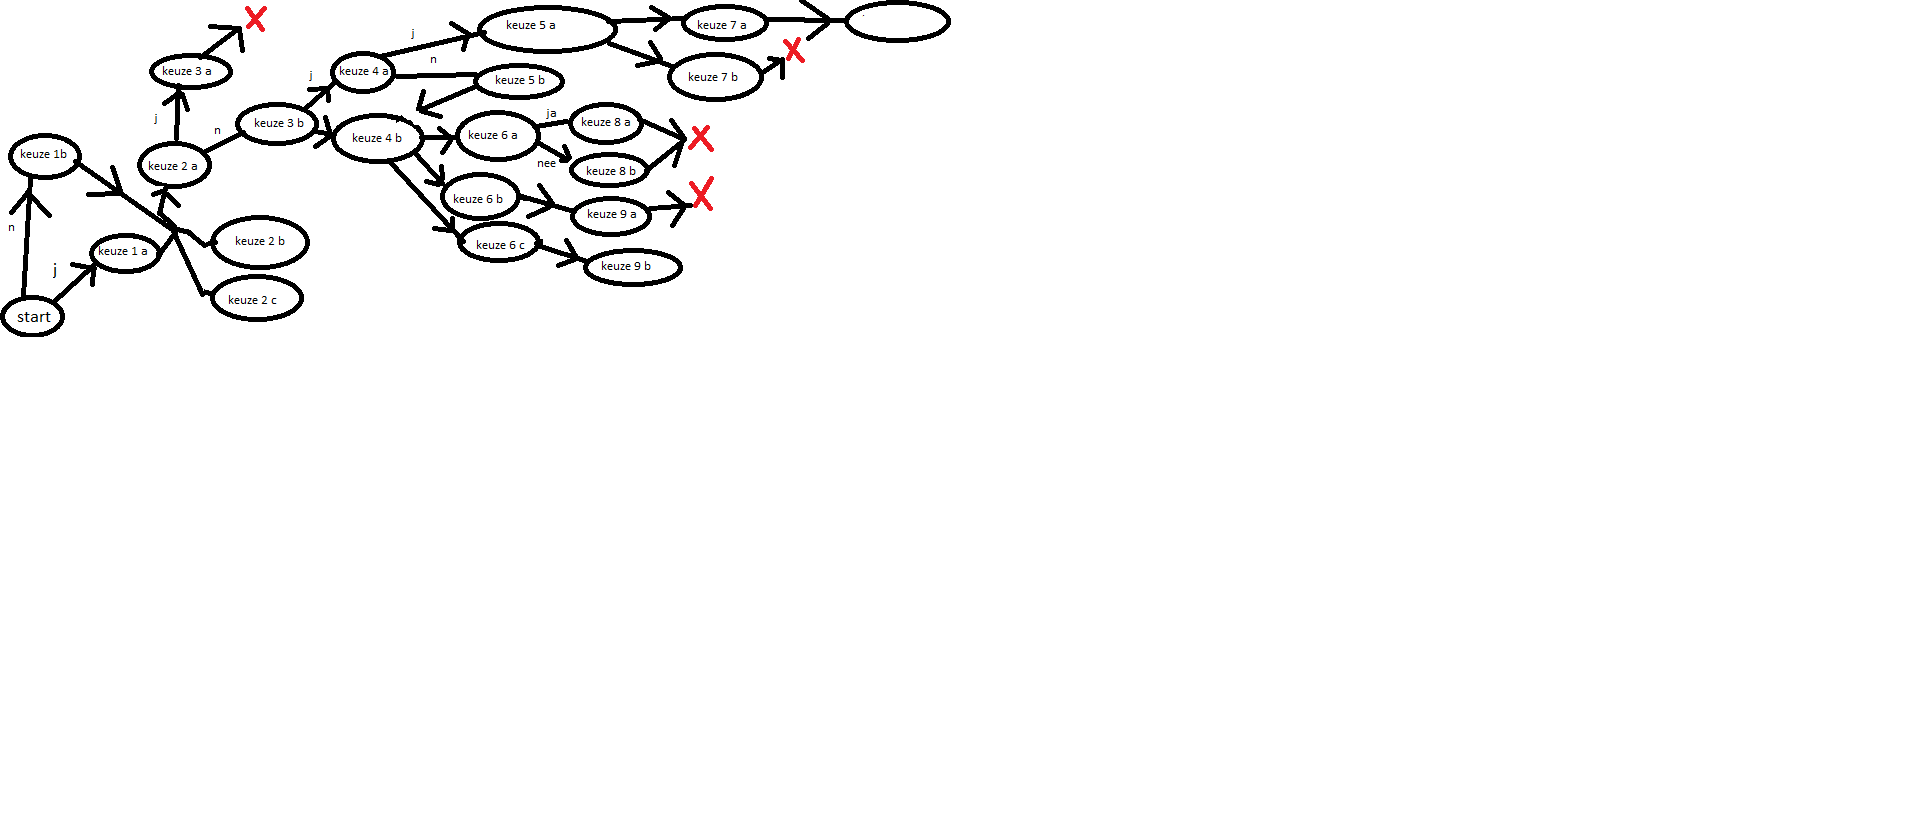
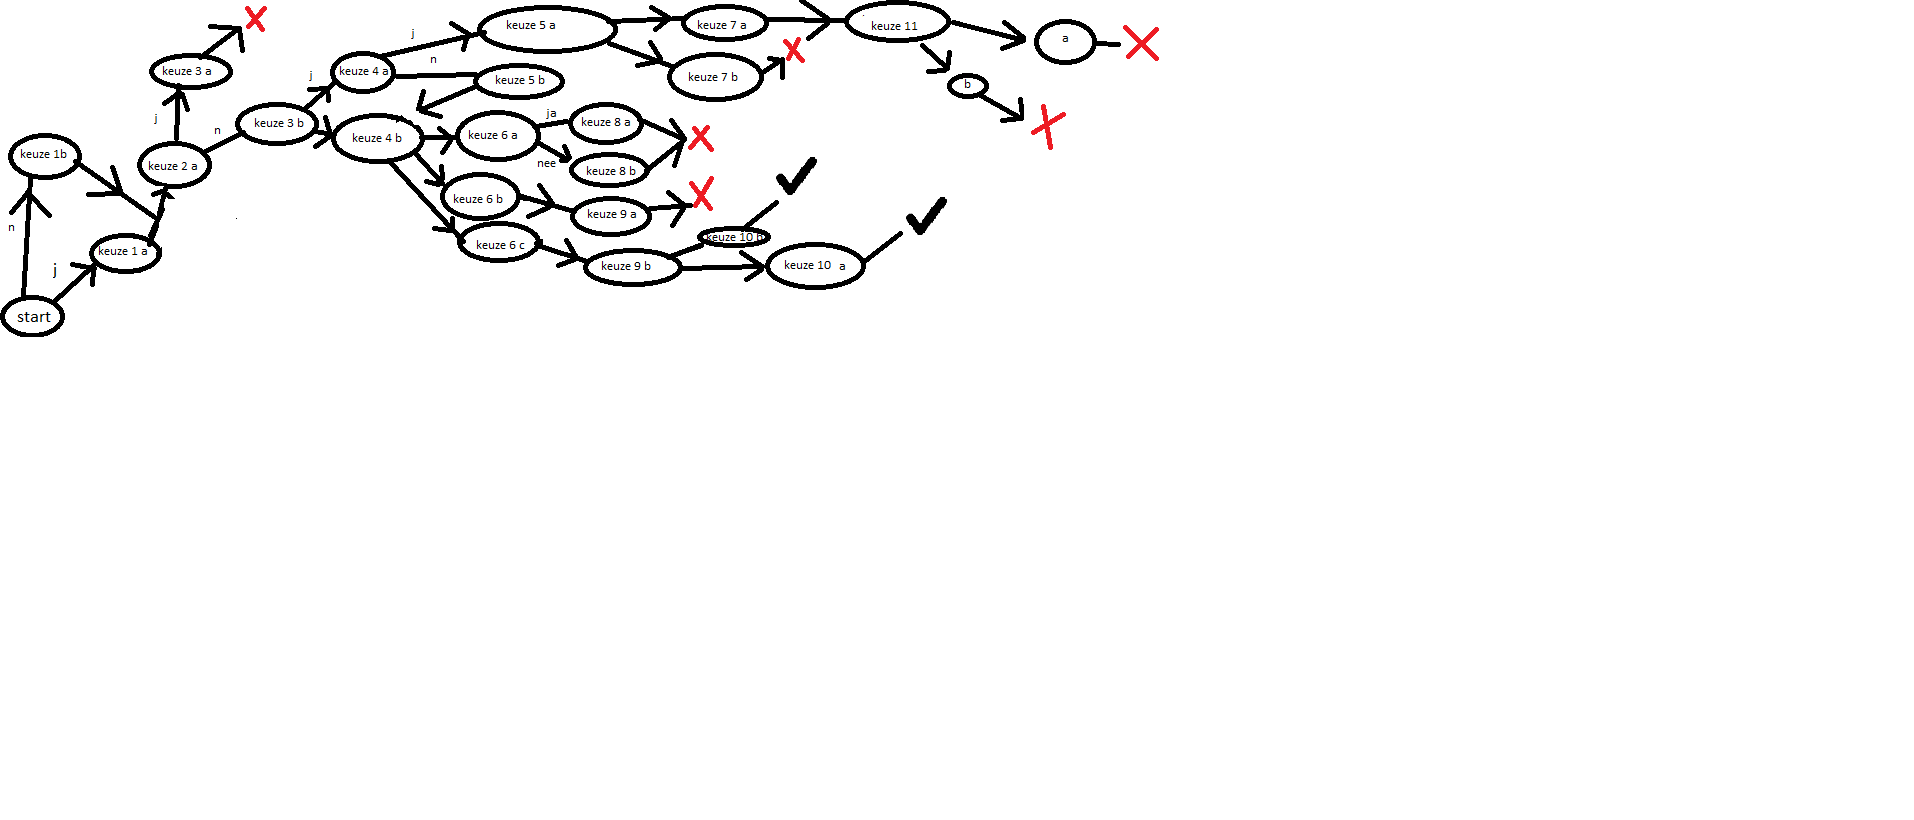
finished the final version

diff --git a/tekstbasedapplicatie.py b/tekstbasedapplicatie.py
@@ -9,17 +9,75 @@ mannenstem = ['Onbekende mannen stem']
 sage = ['Great sage']
 oude_zwaard = 0
 coins = 0
+def keuze10a():
+    print("Je besluit een simpele taak aan te nemen. Het verzamelen van brandhout")
+    sleep(3)
+    print('10 jaar later…')
+    sleep(3)
+    print('Grote groep mensen: gejuich')
+    sleep(3)
+    print('Grote groep mensen: het is de sterkte man ter de wereld')
+    sleep(3)
+    print('Grote groep mensen: is het het waar dat jij een kandidaat bent om de nieuwe koning te worden',naam)
+    sleep(3)
+    print(naam,': ja dat klopt al jaren lang is mijn zwaard voor dit land en dat zal nooit veranderen')
+    sleep(3)
+    print('einde koning')
+    sleep(5)
+def keuze10b():
+    print('je wilt toch geen avonturier worden en besluit de rest van je leven mee te helpen op de markt')
+    sleep(3)
+    print('10 jaar later')
+    print('jouw dochter: papa vertel ons jouw levensverhaal nog eens')
+    sleep(3)
+    print(naam,': oke maar daarna moeten jullie echt slapen')
+    sleep(3)
+def keuze9a():
+    print('receptionist : er zijn 2 melding die spoedig een bodyguard nodig hebben ')
+    sleep(3)
+    print(naam,' : doe mij maar de makkelijkste')
+    sleep(3)
+    print('receptionist : bodyguard jobs weet je nooit hoe moeilijk het is ')
+    sleep(3)
+    print('je accepteert de job om iemand te beschermen in het bos ')
+    sleep(3)
+    print('je komt aan in het bos en er verschijnen goblins')
+    sleep(3)
+    print('baas : versla ze')
+    sleep(3)
+    print(naam,'maar, ik heb geen wapens')
+    sleep(3)
+    print('baas:wat?')
+    sleep(3)
+    print('je word vermoord door de goblins')
+    sleep(3)
+def keuze9b():
+    print('Receptionist : je bent nu een f rank avonturier')
+    sleep(3)
+    print('Receptionist :  je kunt alleen taken die f rank hebben nemen')
+    sleep(3)
+    print('Receptionist : hoe meer jobs je doet/ haalt hoe hoger je rank word')
+    sleep(3)
+    print('Receptionist : wil je een taak nemen')
+    keuze10 = input()
+    if keuze10 == 'ja':
+        keuze10a()
+    elif keuze10 == 'nee':
+        keuze10b()
+    else:
+        print('das geen antwoord ')
+    
+
+
+    
 def keuze6():
                         keuze6 = input('')
-                        if keuze6 == 'klusjes doen':
+                        if keuze6 == 'klusjes':
                             print(naam,': kan ik iets voor u doen als klusje')
                             sleep(2.6)
                             print('Groenteman: je kan die 8 dozen naar achter brengen voor 20 geld stukken')
                             sleep(2.6)
                             print('Je draagt de laatste doos naar achter en komt een versleten oude zwaard tegen ')
-                            coins = coins + 20
-                            
-
                             #keuze 8 vraag je of je hem mag houden
                             sleep(2.8)
                             print('vraag je of je hem mag houden?')
@@ -39,11 +97,10 @@ def keuze6():
                             sleep(3)
                             print(naam,': nee')
                             sleep(3)
-                            print('Receptionist: oke je moet een kleine test doen')
-                            sleep(3)
-                            print('Receptionist: wat is 1 + 1')
+                            print('receptionist: dat is zo gedaan')
                             #keuze 9
-                            guildtest1()
+                            keuze9a()
+                            
 
 
                         elif keuze6 == 'adventurer':
@@ -51,14 +108,21 @@ def keuze6():
                             print('Je komt binnen en vraagt aan de receptie wat voor banen ze hebben.')
                             print('Receptionist: ben je al aangesloten bij de guild?')
                             print(naam,': nee')
-                            print('Receptionist: oke je moet een kleine test doen')
-                            print('Receptionist: wat is 1 + 1')
-                            guildtest1()
+                            print('receptionist: nou dat is zo gedaan')
+                            print('klusjes,bodyguard,adventurer')
+                            keuze9b()
+                            
+                             
+
+                            
+                                
+                            
+
+
 
 def keuze8():
         keuze8 = input('')
         if keuze8 in keuzejalist:
-            oude_zwaard += 1
             print(naam,': mag ik hem houden?')
             sleep(2.5)
             print('groenteman : tuurlijk, ik heb er niks aan')
@@ -73,7 +137,7 @@ def keuze8():
             print('in de nacht word je spullen gestolen en word je vermoord in je slaap')
 
         elif keuze8 in keuzeneelist:
-            oude_zwaard = 0
+            
             print('je besluit om niet te vragen om de zwaard tehouden en gaat weg met de 20 goud stukken')
             sleep(3)
             print('je zoekt naar een slaap plaats en loopt een steeg in')
@@ -86,6 +150,7 @@ def guildtest1():
         print('je bent geslaagt')
     else:
         print('je bent afgewezen')
+        
     
 
 while 1:
@@ -138,12 +203,11 @@ while 1:
             sleep(2.6)
             print(naam,':hoe weet je mijn naam?')
             sleep(2.6)
-            print(angel,': ik heb hier geen tijd voor je kunt 3 skills kiezen voor je nieuwe leven kies wijs')
+            print(angel,': ik heb hier geen tijd voor je krijgt de  skill great sage voor je nieuwe leven zeg great sage om te bevestigen')
             sleep(2.6)
-            print(skilllist)
             keuze2 = input('')
             if keuze2 == 'great sage':
-                print(angel,': dat is een solid keuze ')
+                print(angel,': perfect ')
                 sleep(2)
                 print(angel,'de skill : great sage')
                 sleep(2)
@@ -229,11 +293,70 @@ while 1:
                     keuze4 = input('')
                     if keuze4 in keuzejalist:
                         print(sage,': er is een dungeon 4 km van de west gate vandaan je kunt daar makelijk schatten vinden.')
+                        sleep(3)
                         print('ga je naar de dungeon of ga je verder door de stad zoeken')
+                        sleep(3)
                         print('dungeon of verder kijken')
                         keuze5 = input('')
                         if keuze5 == 'dungeon':
-                            print()
+                            print('Je besluit naar de dungeon te gaan. Onderweg kom je een bos tegen')
+                            print('ga je items verzammelen in het bos ja/nee?')
+                            keuze7 = input()
+                            if keuze7 in keuzejalist:
+                                print('Je loopt in de bos en je vindt een tak,klimop en een steen')
+                                sleep(3)
+                                print('Je maakt een stenen bijl')
+                                sleep(3)
+                                print('Verder op zie je het pad weer richting  de dungeon.')
+                                sleep(3)
+                                print('Na 2 uur bereik je eindelijk de dungeon')
+                                sleep(3)
+                                print('De deur gaat krakend open')
+                                sleep(3)
+                                print('Je loopt de eerste kamer binnen')
+                                sleep(3)
+                                print('De vuur korven gaan automatisch aan ')
+                                sleep(3)
+                                print('Je komt een goblin tegen')
+                                sleep(3)
+                                print('Je hakt in 1 slag ze hoofd er af met je bijl ')
+                                sleep(3)
+                                print('pak je zijn mes op?')
+                                keuze11 = input()
+                                if keuze11 in keuzejalist:
+                                    print('ja je pakt het mes op en laat je bijl achter')
+                                    sleep(3)
+                                    print('in de volgende kamer kom je een goblin tegen met een houten shild en een zwaard')
+                                    sleep(3)
+                                    print('je slaat met je mes maar de goblin blokt het met zijn schild en hij snijd je nek door')
+                                    sleep(3)
+                                    break
+                                elif keuze11 in keuzeneelist:
+                                    print('je laat de mes achter en gaat verder met een bijl ')
+                                    sleep(3)
+                                    print('in de volgende kamer kom je een goblin tegen')
+                                    sleep(3)
+                                    print('met een zwaar en een schild ')
+                                    sleep(3)
+                                    print('je slaat met je bijl ')
+                                    sleep(3)
+                                    print('de goblin blokt het ')
+                                    sleep(3)
+                                    print('maar je hakt door het houten schild heen ')
+                                    print('*biep* :  level up')
+                                    print('Je gaat naar de volgende kamer ')
+                                    sleep(3)
+                                    print('*boem boem boem*')
+                                    print('Boss kamer opent')
+                                    sleep(4)
+                                    print('Je kan niet meer ontsnappen en word gedwongen te vechten ')
+                                    sleep(3)
+                                    print('Het is een minotaurs')
+                                    print('Je had geen schijn van kans alleen en ging binnen secondes dood')
+                                    sleep(8)
+                                    break
+
+
                         elif keuze5 == 'verder kijken':
                                 print('Je besluit om rond te kijken en je vind een markt.')
                                 sleep(2.6)
@@ -246,7 +369,8 @@ while 1:
                                 print('Groenteman: je zou klusjes kunnen doen, je zou een bodyguard kunnen zijn en aan sluiten bij de adventurer guild.')
                                 sleep(2.6)
                                 keuze6()
-                                sleep(3)          
+                                break
+                                        
                         else:
                             print('dat is geen optie')
                             clear()
@@ -262,12 +386,7 @@ while 1:
                         print('Groenteman: je zou klusjes kunnen doen, je zou een bodyguard kunnen zijn en aan sluiten bij de adventurer guild.')
                         sleep(2.6)
                         keuze6()
-                        guildtest1()
-
-            elif keuze2 == 'skill tame':
-                print()
-            elif keuze2 == 'power absoberen':
-                print()
+                        break
             else:
                 print('geen optie probeer nog een keer')
 
@@ -281,16 +400,15 @@ while 1:
             print(angel,': ik had een speech klaar staan maar daar heb ik geen zin meer in.')
             sleep(2)
             while 1:
-                print(angel,': kort samengevat je gaat naar een nieuwe wereld je hebt keuze tussen 3 skills')
+                print(angel,': kort samengevat je gaat naar een nieuwe wereld je krijgt de skill great sage zeg great sage om het te bevestigen')
                 sleep(2)
                 print(angel,': kies wijs of niet. het boeit mij niet meer')
                 sleep(2)
                 print(naam,': wacht wat?')
                 sleep(2)
-                print(skilllist)
                 keuze2 = input('')
                 if keuze2 == 'great sage':
-                        print(angel,': dat is een solid keuze ')
+                        print(angel,': perfect ')
                         sleep(2)
                         print(angel,'de skill : great sage')
                         sleep(2)
@@ -374,10 +492,20 @@ while 1:
                             print('ga je great sage gebruiken')
                             sleep(2.6)
                             keuze4 = input('')
-                elif keuze2 == 'skil tame':
-                    print()
-                elif keuze2 == 'power absoberen':
-                    print()
+                            if keuze4 in keuzejalist:
+                                print('Je besluit om rond te kijken en je vind een markt.')
+                        sleep(2.6)
+                        print('Groenteman: he knul wil je wat fruit het is het verste uit de hele stad')
+                        sleep(2.6)
+                        print(naam,': ik heb geen geld, weet u een manier om makelijk geld teverdienen.')
+                        sleep(2.6)
+                        print('Groenteman: hmm…')
+                        sleep(2.6)
+                        print('Groenteman: je zou klusjes kunnen doen, je zou een bodyguard kunnen zijn en aan sluiten bij de adventurer guild.')
+                        sleep(2.6)
+                        keuze6()
+                        break
+
                 else:
                     print('geen optie probeer nog een keer')
         else:
